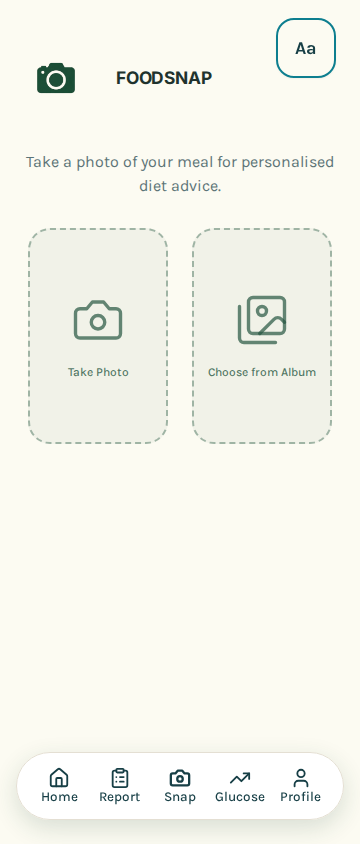
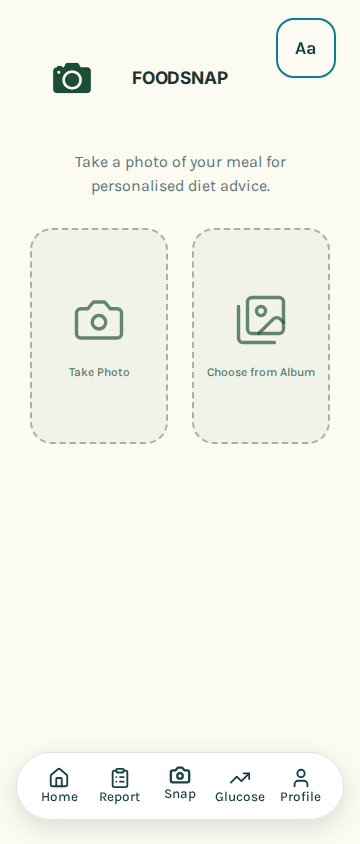
Restore lifted active navigation tab
Replit-Task-Id: f8004f62-c242-48b2-be53-d50eb99497f1
Replit-Merge-Attempt: MergeTask:f8004f62-c242-48b2-be53-d50eb99497f1:1:95c9feae

diff --git a/client/src/components/DailyFoodSummaryBanner.tsx b/client/src/components/DailyFoodSummaryBanner.tsx
@@ -22,6 +22,63 @@ export function dailyVerdictTranslationKey(verdict: DailyReportVerdict): string 
     : `two_month_report.daily_verdict.${verdict}`;
 }
 
+type Translate = (key: string, options?: Record<string, unknown>) => string;
+
+/**
+ * Builds the report card copy from the already-resolved Daily report.
+ *
+ * This deliberately does not use the mascot copy. The mascot is encouraging
+ * and conversational; this card is a factual report with a separate
+ * suggestion. Both still receive the same backend-authoritative verdict and
+ * meal facts.
+ */
+export function buildSummary(report: DailyReportResponse, t: Translate) {
+  const snaps = report.meals;
+  const noMealDefaults = {
+    primary: "昨日未見飲食記錄。",
+    primarySuggestion: "定時進食有助穩定全日血糖。",
+  };
+
+  if (report.verdict === "no_meals" || snaps.length === 0) {
+    return {
+      primary: t("two_month_report.daily_summary.no_meals_primary", { defaultValue: noMealDefaults.primary }),
+      primarySuggestion: t("two_month_report.daily_summary.no_meals_suggestion", { defaultValue: noMealDefaults.primarySuggestion }),
+    };
+  }
+
+  if (report.verdict === "stable") {
+    const namedMeal = snaps.find((meal) => meal.foodName)?.foodName;
+    return {
+      primary: namedMeal
+        ? t("two_month_report.daily_summary.stable_meal_primary", { food: namedMeal })
+        : t("two_month_report.daily_summary.stable_primary"),
+      primarySuggestion: t("two_month_report.daily_summary.stable_suggestion"),
+    };
+  }
+
+  if (report.verdict === "medium") {
+    return {
+      primary: t("two_month_report.daily_summary.medium_primary"),
+      primarySuggestion: t("two_month_report.daily_summary.medium_suggestion"),
+    };
+  }
+
+  if (report.verdict === "high") {
+    const highMeal = snaps.find((meal) => meal.finalGlucoseImpact === "high");
+    return {
+      primary: highMeal?.foodName
+        ? t("two_month_report.daily_summary.high_meal_primary", { food: highMeal.foodName })
+        : t("two_month_report.daily_summary.high_primary"),
+      primarySuggestion: t("two_month_report.daily_summary.high_suggestion"),
+    };
+  }
+
+  return {
+    primary: t("two_month_report.daily_summary.unavailable_primary"),
+    primarySuggestion: t("two_month_report.daily_summary.unavailable_suggestion"),
+  };
+}
+
 interface Props {
   report: DailyReportResponse;
   timezone?: string;
@@ -33,7 +90,11 @@ export function DailyFoodSummaryBanner({ report, timezone, onViewMeal, viewMealL
   const { t, i18n } = useTranslation();
   const locale = i18n.language === "yue" ? "zh-HK" : i18n.language === "zh-Hant" ? "zh-TW" : "en-US";
   const isZh = isChineseLanguage(i18n.language);
-  const message = t(dailyVerdictTranslationKey(report.verdict));
+  const snaps = report.meals;
+  const summary = buildSummary(report, t);
+  // Keep the mascot/card agreement inspectable without rendering mascot prose
+  // inside the report card.
+  const sharedVerdictKey = dailyVerdictTranslationKey(report.verdict);
   const reportDate = new Intl.DateTimeFormat(locale, {
     month: "short",
     day: "numeric",
@@ -45,6 +106,7 @@ export function DailyFoodSummaryBanner({ report, timezone, onViewMeal, viewMealL
     <section
       className="overflow-hidden rounded-[1.75rem] bg-white p-5 shadow-[0_3px_12px_rgba(28,58,63,.10)]"
       data-testid="card-daily-food-summary"
+      data-verdict-key={sharedVerdictKey}
     >
       <div className="mb-4 flex items-center justify-between gap-3">
         <span className="inline-flex items-center gap-1.5 rounded-full bg-[#e1f2ed] px-3 py-1 text-sm font-bold text-[#075c49]">
@@ -56,8 +118,13 @@ export function DailyFoodSummaryBanner({ report, timezone, onViewMeal, viewMealL
 
       <div className="rounded-2xl bg-[#eef8f8] p-4">
         <p className="text-xl font-bold leading-snug text-[#173b55]" data-testid="text-daily-summary-primary">
-          {message}
+          {summary.primary}
         </p>
+        {summary.primarySuggestion && (
+          <p className="mt-2 text-base leading-relaxed text-[#536467]" data-testid="text-daily-summary-suggestion">
+            {summary.primarySuggestion}
+          </p>
+        )}
       </div>
 
       <div className="mt-5">
@@ -67,57 +134,59 @@ export function DailyFoodSummaryBanner({ report, timezone, onViewMeal, viewMealL
             {t("food_reports.yesterday_timeline_title")}
           </h2>
           <span className="text-xs font-medium text-[#606967]">
-            {t("food_frequency.meals", { count: report.meals.length })}
+            {t("food_frequency.meals", { count: snaps.length })}
           </span>
         </div>
-        {report.meals.length === 0 ? (
+        {snaps.length === 0 ? (
           <p className="rounded-2xl bg-[#f4f2ed] px-4 py-5 text-sm text-[#606967]" data-testid="meal-timeline-empty">
             {t("food_reports.yesterday_timeline_empty")}
           </p>
         ) : (
-          <div className="divide-y divide-[#d9ddd8] rounded-2xl bg-[#f4f2ed] px-4" data-testid="meal-timeline-list">
-            {report.meals.map((meal, index) => {
-              const impact = impactPresentation(meal.finalGlucoseImpact, isZh);
-              return (
-                <div className="flex min-w-0 items-center gap-3 py-3" key={meal.id} data-testid={`meal-timeline-item-${meal.id}`}>
-                  <span
-                    className="flex h-7 w-7 shrink-0 items-center justify-center rounded-full text-sm font-bold text-white"
-                    style={{ backgroundColor: impact.color }}
-                  >
-                    {index + 1}
-                  </span>
-                  <div className="min-w-0 flex-1">
-                    <div className="flex flex-wrap items-baseline gap-x-2">
-                      <span className="font-bold text-[#1b2825]">{mealLabel(meal.mealType, isZh)}</span>
-                      <time className="text-xs text-[#606967]">
-                        {new Intl.DateTimeFormat(locale, {
-                          hour: "numeric",
-                          minute: "2-digit",
-                          timeZone: timezone,
-                        }).format(new Date(meal.snapTime))}
-                      </time>
+          snaps.length > 0 && (
+            <div className="divide-y divide-[#d9ddd8] rounded-2xl bg-[#f4f2ed] px-4" data-testid="meal-timeline-list">
+              {snaps.map((meal, index) => {
+                const impact = impactPresentation(meal.finalGlucoseImpact, isZh);
+                return (
+                  <div className="flex min-w-0 items-center gap-3 py-3" key={meal.id} data-testid={`meal-timeline-item-${meal.id}`}>
+                    <span
+                      className="flex h-7 w-7 shrink-0 items-center justify-center rounded-full text-sm font-bold text-white"
+                      style={{ backgroundColor: impact.color }}
+                    >
+                      {index + 1}
+                    </span>
+                    <div className="min-w-0 flex-1">
+                      <div className="flex flex-wrap items-baseline gap-x-2">
+                        <span className="font-bold text-[#1b2825]">{mealLabel(meal.mealType, isZh)}</span>
+                        <time className="text-xs text-[#606967]">
+                          {new Intl.DateTimeFormat(locale, {
+                            hour: "numeric",
+                            minute: "2-digit",
+                            timeZone: timezone,
+                          }).format(new Date(meal.snapTime))}
+                        </time>
+                      </div>
+                      <p className="truncate text-xs text-[#606967]">{meal.foodName || t("food_reports.unnamed_meal")}</p>
+                      {meal.postMealGlucoseMmol != null && (
+                        <p className="text-xs font-medium text-[#075c49]" data-testid={`daily-meal-glucose-${meal.id}`}>
+                          {meal.postMealGlucoseMmol.toFixed(1)} mmol/L
+                        </p>
+                      )}
                     </div>
-                    <p className="truncate text-xs text-[#606967]">{meal.foodName || t("food_reports.unnamed_meal")}</p>
-                    {meal.postMealGlucoseMmol != null && (
-                      <p className="text-xs font-medium text-[#075c49]" data-testid={`daily-meal-glucose-${meal.id}`}>
-                        {meal.postMealGlucoseMmol.toFixed(1)} mmol/L
-                      </p>
-                    )}
+                    <span
+                      className="max-w-[7.5rem] shrink-0 rounded-full px-2 py-1 text-xs font-bold"
+                      style={{ backgroundColor: `${impact.color}18`, color: impact.textColor }}
+                    >
+                      {impact.label}
+                    </span>
                   </div>
-                  <span
-                    className="max-w-[7.5rem] shrink-0 rounded-full px-2 py-1 text-xs font-bold"
-                    style={{ backgroundColor: `${impact.color}18`, color: impact.textColor }}
-                  >
-                    {impact.label}
-                  </span>
-                </div>
-              );
-            })}
-          </div>
+                );
+              })}
+            </div>
+          )
         )}
       </div>
 
-      {report.meals.length > 0 && onViewMeal && (
+      {snaps.length > 0 && onViewMeal && (
         <button
           type="button"
           onClick={onViewMeal}

diff --git a/client/src/pages/snap-scoped.css b/client/src/pages/snap-scoped.css
@@ -29,6 +29,11 @@
   width: 100%; min-height: 54px; margin-top: 10px; resize: vertical; border: 0; border-radius: 10px;
   background: #f4f3ed; color: var(--snap-ink); padding: 12px; font: inherit; line-height: 1.35;
 }
+.snap-review-card:first-child .snap-text-entry {
+  min-height: 58px;
+  font-size: 18px;
+  font-weight: 700;
+}
 .snap-text-entry:focus { outline: 2px solid var(--snap-teal); outline-offset: 2px; }
 .snap-portion-grid { display: grid; grid-template-columns: repeat(3, minmax(0, 1fr)); gap: 8px; margin-top: 12px; }
 .snap-portion-button { min-height: 52px; border: 0; border-radius: 12px; padding: 8px 5px; background: #f3f2ec; color: var(--snap-ink); font-weight: 700; line-height: 1.2; overflow-wrap: anywhere; }
@@ -52,11 +57,27 @@
 .mascot-speech-bubble__message { position: relative; border: 1px solid rgba(8,101,116,.12); background: #d7eef0; color: #086574; box-shadow: 0 2px 7px rgba(34,56,48,.06); border-radius: 15px 15px 15px 4px; padding: 10px 13px; font-size: 14px; line-height: 1.4; font-weight: 700; }
 .mascot-speech-bubble__message::before { content: ""; position: absolute; left: -6px; bottom: 11px; width: 11px; height: 11px; background: #d7eef0; border-left: 1px solid rgba(8,101,116,.12); border-bottom: 1px solid rgba(8,101,116,.12); transform: rotate(45deg); }
 
-.snap-advice-dialog { background: #fcfbf2 !important; border: 1px solid rgba(255,255,255,.7) !important; box-shadow: 0 18px 50px rgba(25,45,40,.28) !important; }
+.snap-advice-dialog {
+  width: min(calc(100vw - 2rem), 420px) !important;
+  background: #fcfbf2 !important;
+  border: 1px solid rgba(255,255,255,.7) !important;
+  border-radius: 32px !important;
+  box-shadow: 0 18px 50px rgba(25,45,40,.28) !important;
+}
+.snap-advice-dialog > button {
+  top: 16px !important;
+  right: 16px !important;
+  width: 44px;
+  height: 44px;
+  border-radius: 999px;
+  background: #f0efeb;
+  opacity: .72;
+}
 .snap-advice-dialog .snap-advice-content { padding-top: 59px; }
-.snap-advice-kicker { display: inline-flex; align-items: center; border-radius: 999px; padding: 6px 11px; background: #d7eef0; color: #086574; font-size: 13px; font-weight: 700; }
+.snap-advice-kicker { display: inline-flex; align-items: center; gap: 6px; border-radius: 999px; padding: 6px 11px; background: #d7eef0; color: #086574; font-size: 13px; font-weight: 700; text-align: center; }
 .snap-advice-heading { color: #086574; font-size: 24px; line-height: 1.15; font-weight: 800; text-align: center; }
 .snap-advice-audio { display: flex; width: 100%; align-items: center; justify-content: space-between; gap: 10px; border: 1px solid rgba(8,101,116,.18); background: rgba(215,238,240,.55); border-radius: 15px; padding: 9px 11px; }
+.snap-advice-audio-icon { display: grid; place-items: center; width: 40px; height: 40px; flex: 0 0 auto; border-radius: 999px; background: #086574; color: white; }
 .snap-advice-audio button { min-height: 38px; border: 1px solid #086574; border-radius: 10px; background: #fffefa; color: #086574; padding: 6px 11px; font-weight: 700; }
 .snap-advice-audio button.is-speaking { background: #086574; color: white; }
 .snap-advice-primary { min-height: 52px; width: 100%; border-radius: 15px !important; background: #086574 !important; color: white !important; font-size: 18px; font-weight: 700; }

diff --git a/client/src/pages/snap.tsx b/client/src/pages/snap.tsx
@@ -871,9 +871,24 @@ export default function Snap() {
           {t("snap.heading")}
         </h1>
       </div>
-      <p className="text-sm text-muted-foreground text-center">
-        {t("snap.subtitle")}
-      </p>
+      {step === "review" ? (
+        <>
+          <MascotSpeechBubble
+            mascotSrc={mascot}
+            message={t("snap.label_subtitle")}
+            testId="snap-review-mascot-message"
+          />
+          <div className="w-full px-1">
+            <p className="text-[17px] leading-relaxed text-[var(--snap-ink)]">{t("snap.subtitle")}</p>
+            <h2 className="mt-4 text-[22px] font-bold tracking-tight text-[var(--snap-ink)]">{t("snap.label_title")}</h2>
+            <p className="text-sm leading-snug text-muted-foreground">{t("snap.label_subtitle")}</p>
+          </div>
+        </>
+      ) : (
+        <p className="text-sm text-muted-foreground text-center">
+          {t("snap.subtitle")}
+        </p>
+      )}
 
       {step === "upload" && (
         <div className="snap-state-card flex flex-col items-center gap-5">
@@ -1005,11 +1020,6 @@ export default function Snap() {
 
       {step === "review" && (
         <div className="snap-state-card flex flex-col gap-4">
-          <div>
-            <p className="text-sm font-semibold">{t("snap.label_title")}</p>
-            <p className="text-xs text-muted-foreground mt-0.5">{t("snap.label_subtitle")}</p>
-          </div>
-
           {error && (
             <div
               className="rounded-xl bg-destructive/10 border border-destructive/20 px-4 py-3 text-sm text-destructive text-center"
@@ -1018,8 +1028,6 @@ export default function Snap() {
               {error}
             </div>
           )}
-
-          <MascotSpeechBubble mascotSrc={mascot} message={t("snap.label_subtitle")} testId="snap-review-mascot-message" />
 
           {previewUrl && (
             <div className="snap-photo-shell">

diff --git a/client/src/components/snap-advice-popup.tsx b/client/src/components/snap-advice-popup.tsx
@@ -2,6 +2,7 @@ import { useState, useRef, useEffect, useCallback } from "react";
 import { useLocation } from "wouter";
 import { useTranslation } from "react-i18next";
 import { Button } from "@/components/ui/button";
+import { Volume2 } from "lucide-react";
 import { Dialog, DialogContent, DialogTitle } from "@/components/ui/dialog";
 import { hapticTap } from "@/lib/haptics";
 import { startSpeech, isSpeechSupported, type SpeechHandle } from "@/lib/tts";
@@ -186,7 +187,10 @@ export function SnapAdvicePopup({
         <DialogTitle className="sr-only">{t("snap.advice_title")}</DialogTitle>
         <img src={mascot} alt="" aria-hidden="true" className="pointer-events-none absolute -top-16 left-1/2 z-10 h-28 w-28 -translate-x-1/2 object-contain" />
         <div className="snap-advice-content flex max-h-[calc(100dvh-6rem)] flex-col items-center gap-4 overflow-y-auto px-6 pb-5" data-testid={`card-snap-advice-${card}`}>
-          <span className="snap-advice-kicker">{advice.opener || t("snap.advice_title")}</span>
+            <span className="snap-advice-kicker">
+              <span aria-hidden="true">💬</span>
+              {advice.opener || t("snap.advice_title")}
+            </span>
           <h2 className="snap-advice-heading">{card === 0 ? impactLabel : card === 1 ? t("snap_popup.now_label") : t("snap_popup.next_label")}</h2>
           {card === 0 && (
             <>
@@ -259,7 +263,8 @@ export function SnapAdvicePopup({
 
           {listenButton && (
             <div className="snap-advice-audio">
-              <span className="text-left text-xs font-medium text-muted-foreground">{t("snap_popup.listen")}</span>
+              <span className="snap-advice-audio-icon" aria-hidden="true"><Volume2 className="h-5 w-5" /></span>
+              <span className="sr-only">{t("snap_popup.listen")}</span>
               {listenButton}
             </div>
           )}

diff --git a/client/src/components/floating-nav-bar.tsx b/client/src/components/floating-nav-bar.tsx
@@ -114,6 +114,7 @@ export default function FloatingNavBar() {
             <motion.button
               key={key}
               onClick={() => handleNavClick(path, key)}
+              animate={{ y: active ? -3 : 0 }}
               whileTap={NAV_TAP}
               transition={NAV_TAP_TRANSITION}
               className="relative z-10 flex min-w-0 flex-1 flex-col items-center justify-center select-none"

diff --git a/client/src/components/main-font-toggle.tsx b/client/src/components/main-font-toggle.tsx
@@ -62,6 +62,7 @@ export default function MainFontToggle() {
     location.startsWith("/food-log") ||
     location.startsWith("/snap") ||
     location.startsWith("/glucose-patterns") ||
+    location.startsWith("/hstix") ||
     location.startsWith("/health-info") ||
     location.startsWith("/profile");
 

diff --git a/.agents/memory/daily-verdict-authority.md b/.agents/memory/daily-verdict-authority.md
@@ -2,8 +2,8 @@
 name: Daily verdict authority
 description: Approved relationship between Daily report verdict and mascot copy.
 ---
-The Daily overall verdict depends only on logged meals' backend-determined final impacts. The mascot presents the same Daily report verdict, not an independent assessment. Timing and snack presence must not alter that verdict.
+The Daily overall verdict depends only on logged meals' backend-determined final impacts. The mascot and report card present the same verdict, but keep separate localized prose: conversational mascot copy versus factual report wording. Timing and snack presence must not alter that verdict.
 
 **Why:** The user explicitly rejected a separate mascot selector because it could disagree with the Daily card. At least one high final impact means a high Daily verdict.
 
-**How to apply:** Share report data and verdict-driven localization between the Daily card and mascot. Do not classify raw readings in the frontend or silently treat unknown impacts as low/stable.
+**How to apply:** Share one report response and verdict-driven localization between the Daily card and mascot. Do not reuse mascot messages as report findings, classify raw readings in the frontend, or silently treat unknown impacts as low/stable.
